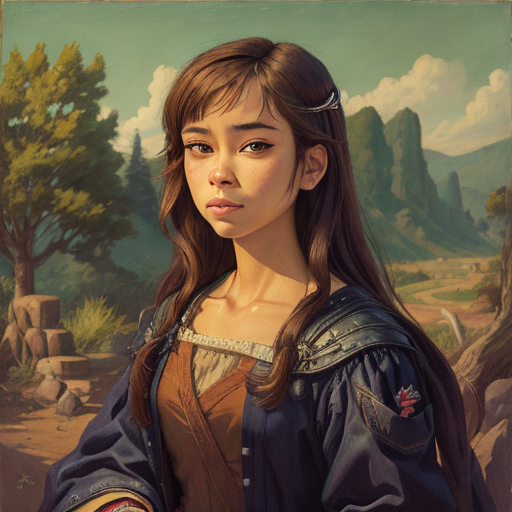
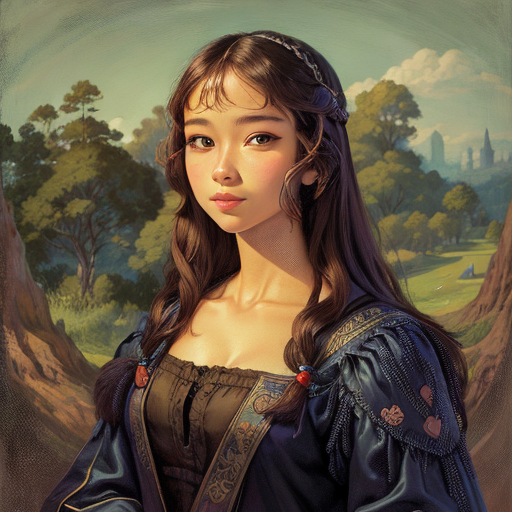
update example images, and tweak prompts

diff --git a/main.py b/main.py
@@ -14,7 +14,7 @@ hide_menu_style = """
         """
 st.markdown(hide_menu_style, unsafe_allow_html=True)
 
-st.write(f"**_Get your cartoon character in 10 seconds_**")
+st.title(f"_Get your cartoon character here_")
 st.write("Just upload your portrait photo, and check the generated cartoon character.")
 st.write("If this isn't what you want, just try rerun or re-upload another photo, have fun!")
 st.sidebar.write("Upload and download")

diff --git a/img2img.py b/img2img.py
@@ -6,7 +6,7 @@ sd_model_path = "danbrown/RevAnimated-v1-2-2"
 lora_model_path = "./lora/blindbox_v1_mix.safetensors"
 
 prompt = "detailed, portrait, cartoon, solo, masterpiece"
-negative_prompt = "EasyNegative, nsfw, watermark, low quality, worst quality"
+negative_prompt = "EasyNegative, nsfw, naked, watermark, angry, sad, low quality, worst quality"
 
 
 class ImageConvert:
